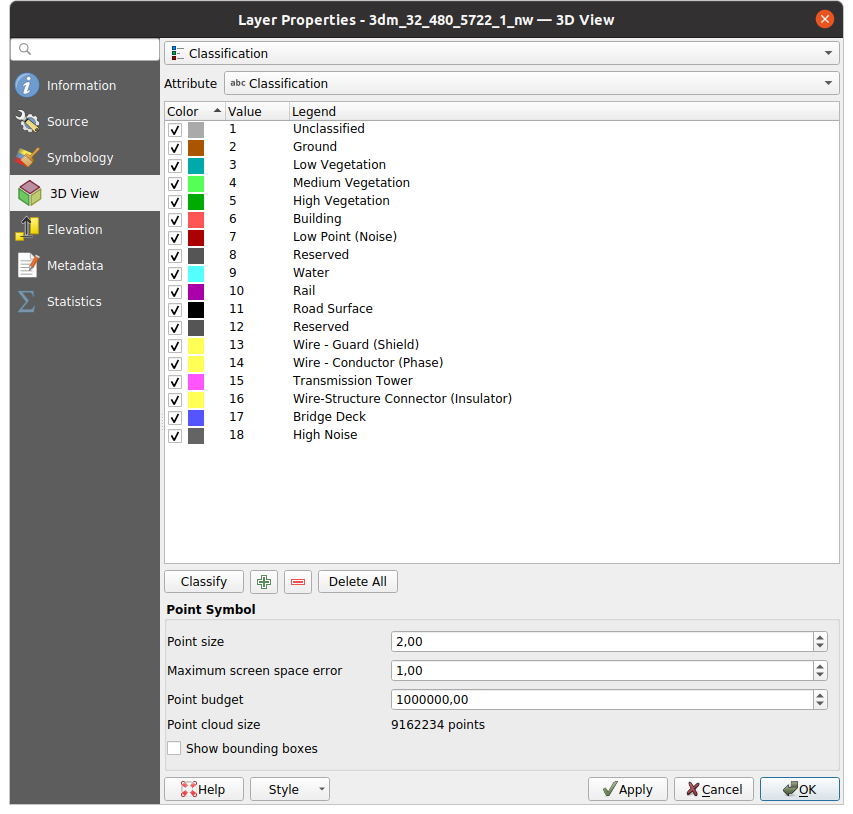
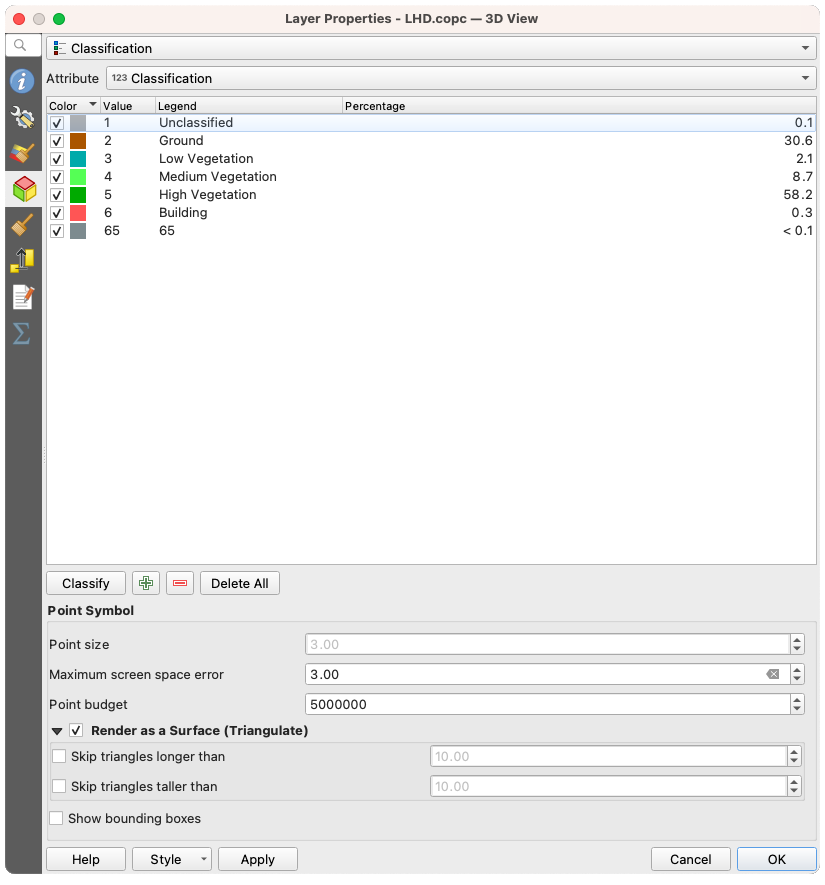
Explore more 3D properties of point clouds

diff --git a/docs/user_manual/working_with_point_clouds/point_clouds.rst b/docs/user_manual/working_with_point_clouds/point_clouds.rst
@@ -158,6 +158,8 @@ In the upper part, the settings of the different feature renderers can be found.
 In the lower part, there are sections with which general settings
 for the entire layer can be made and which apply over feature renderers.
 
+.. _point_clouds_rendering_types:
+
 Feature Rendering types
 .........................
 
@@ -416,16 +418,26 @@ to modify the rendering of the layer:
 --------------------
 
 In the |3d| :guilabel:`3D View` tab you can make the settings for the rendering
-of the point cloud in 3D maps. Following options can be selected from
-the drop down menu at the top of the tab: 
+of the point cloud in 3D maps.
+
+3D Rendering modes
+..................
+
+Following options can be selected from the drop down menu at the top of the tab: 
 
 * :guilabel:`No Rendering`: Data are not displayed
+* :guilabel:`Follow 2D Symbology`: Syncs features rendering in 3D
+  with :ref:`symbology assigned in 2D <point_clouds_rendering_types>`
 * |singleColor| :guilabel:`Single Color`: All points are displayed in the same
   :ref:`color <color-selector>` regardless of attributes
-* |singlebandPseudocolor| :guilabel:`Attribute by Ramp`: See
-  :ref:`point_cloud_ramp`
-* |multibandColor| :guilabel:`RGB`: See :ref:`point_cloud_rgb`
-* |paletted| :guilabel:`Classification`: See :ref:`point_cloud_classification`
+* |singlebandPseudocolor| :guilabel:`Attribute by Ramp`: Interpolates a given attribute
+  over a color ramp and assigns to features their matching color.
+  See :ref:`point_cloud_ramp`.
+* |multibandColor| :guilabel:`RGB`: Use different attributes of the features
+  to set the Red, Green and Blue color components to assign to them.
+  See :ref:`point_cloud_rgb`.
+* |paletted| :guilabel:`Classification`: differentiates points by color
+  on the basis of an attribute. See :ref:`point_cloud_classification`.
 
 .. _figure_point_cloud_3d_view:
 
@@ -433,6 +445,9 @@ the drop down menu at the top of the tab:
    :align: center
 
    The point cloud 3D view tab with the classification renderer
+
+3D Point Symbol
+...............
 
 In the lower part of the |3d| :guilabel:`3D View` tab you can find the
 :guilabel:`Point Symbol` section. Here you can make general settings for the
@@ -449,8 +464,14 @@ options:
   :ref:`Maximum error <point_clouds_symbology_maxerror>`).
 * :guilabel:`Point budget`: To avoid long rendering, you can set the maximum
   number of points that will be rendered
-* :guilabel:`Point cloud size`: For your information only, the total number of
-  points is shown here
+* Check |checkbox| :guilabel:`Render as surface (Triangulate)` to render
+  the point cloud layer in the 3D view with a solid surface obtained by triangulation.
+  You can control dimensions of the computed triangles:
+
+  * |checkbox| :guilabel:`Skip triangles longer than` a threshold value:
+    sets in the horizontal plan, the maximum length of a side of the triangles to consider
+  * |checkbox| :guilabel:`Skip triangles taller than` a threshold value:
+    sets in the vertical plan, the maximum height of a side of the triangles to consider
 * |checkbox| :guilabel:`Show bounding boxes`: Especially useful for debugging,
   shows bounding boxes of nodes in hierarchy
 
